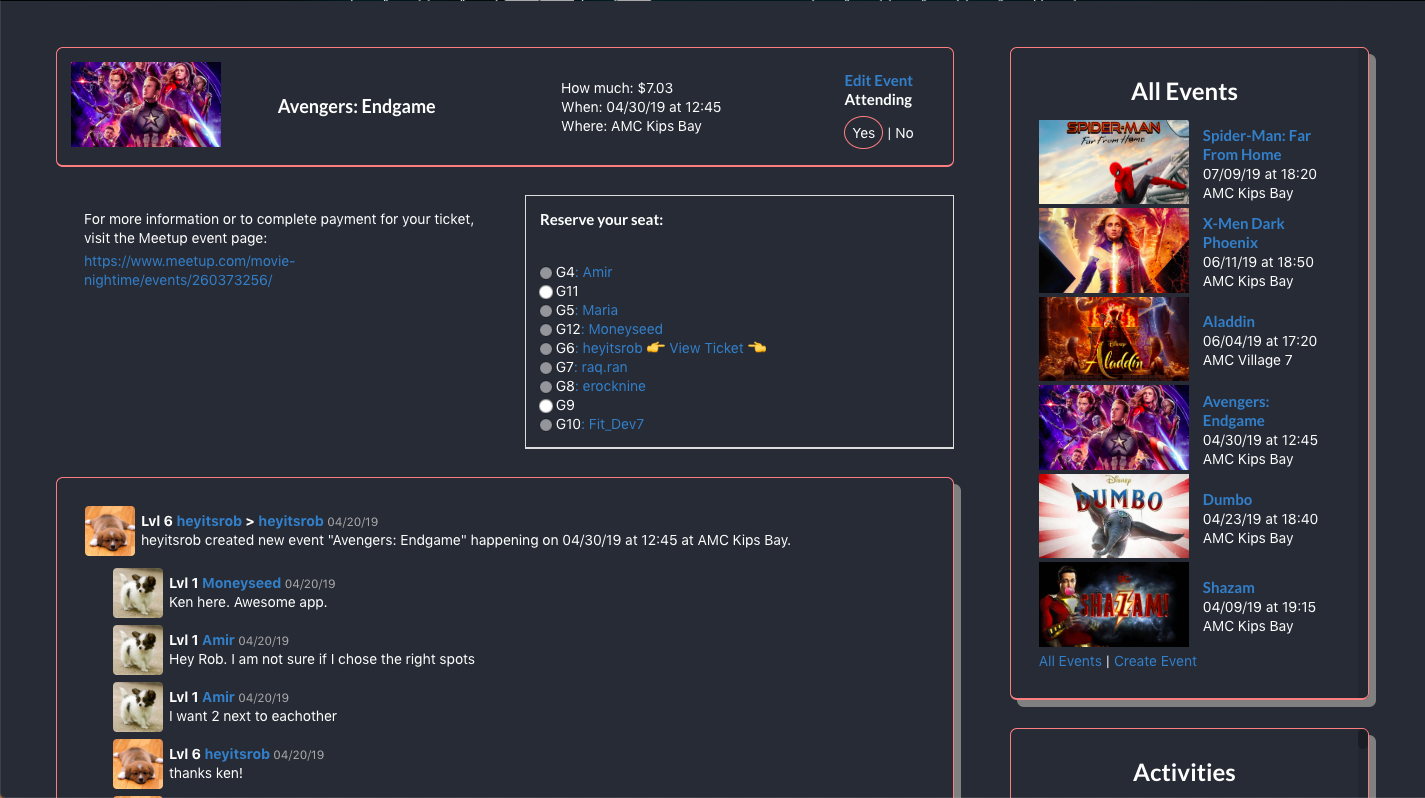
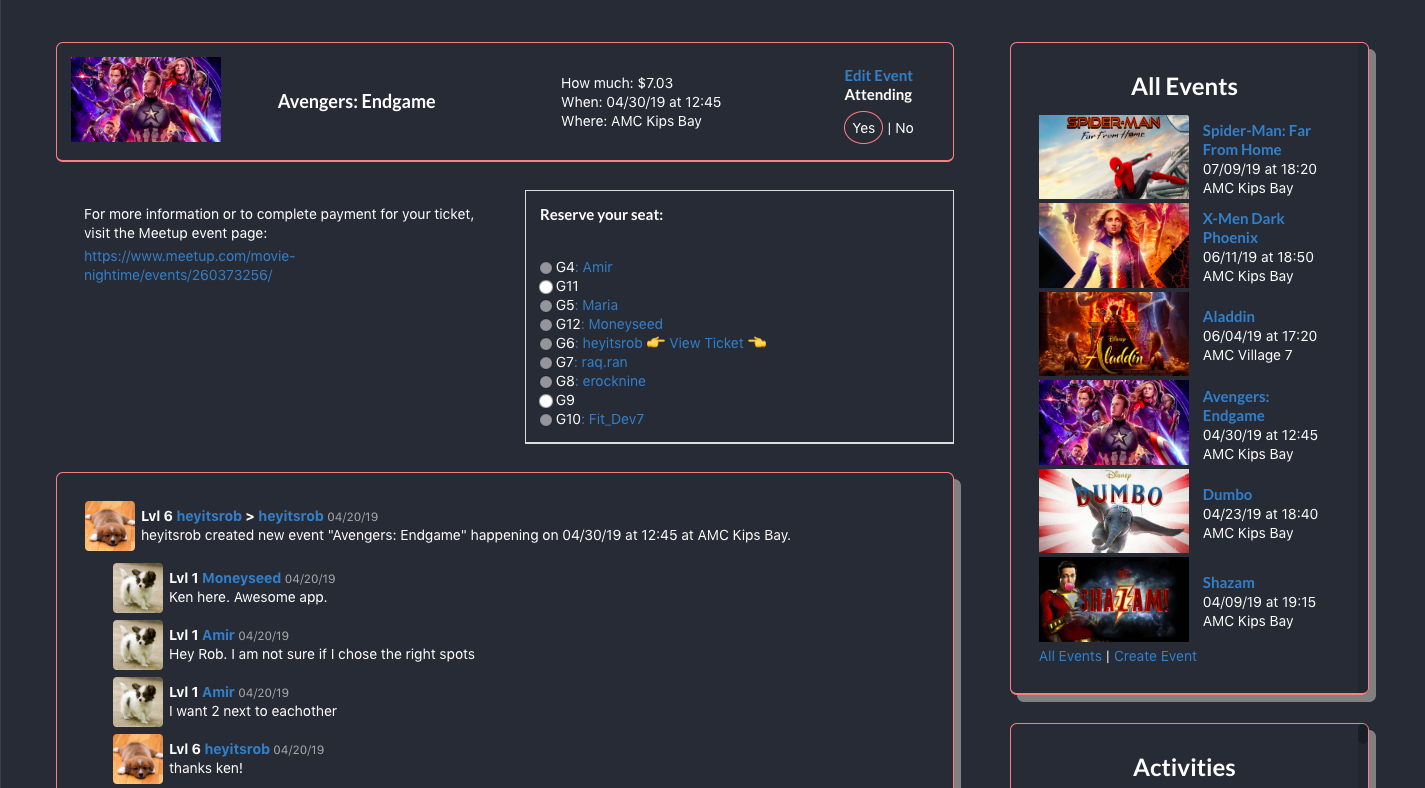
made home page example image smaller

diff --git a/src/components/HomePage.js b/src/components/HomePage.js
@@ -35,6 +35,9 @@ class HomePage extends React.Component {
         </div>
 
         <div className="center homepage-example">
+          <br />
+          <h2>Example Event Page</h2>
+          <br />
           <img src="/assets/example.png" alt="example" />
         </div>
 

diff --git a/src/App.css b/src/App.css
@@ -783,6 +783,16 @@ body,
   z-index: 1;
 }
 
+.homepage-example {
+  margin: auto;
+}
+
+.homepage-example img {
+  width: 92%;
+  border: 1px grey dotted;
+  border-radius: 1em;
+}
+
 .homepage-tagline {
   padding-top: 3em;
 }
